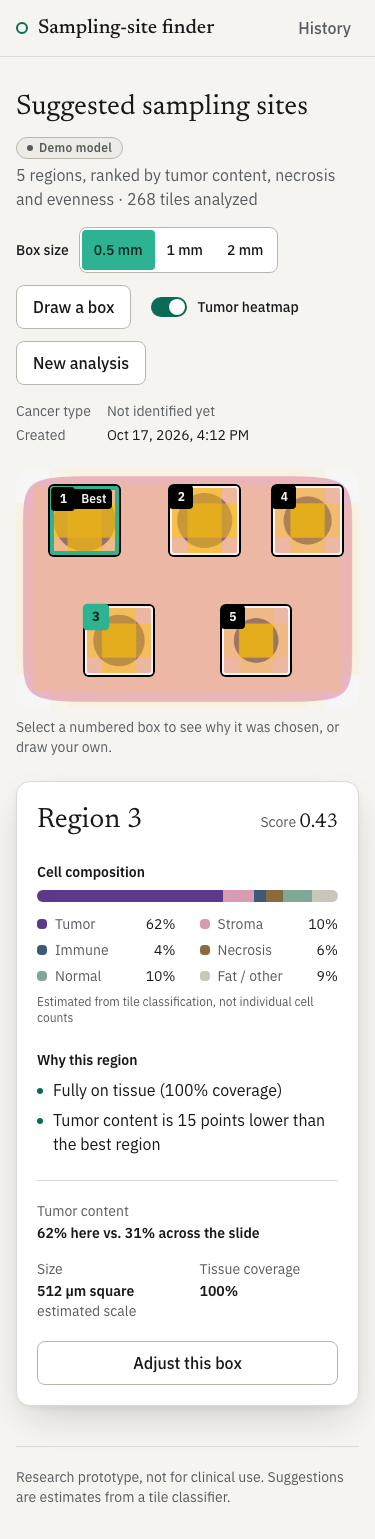
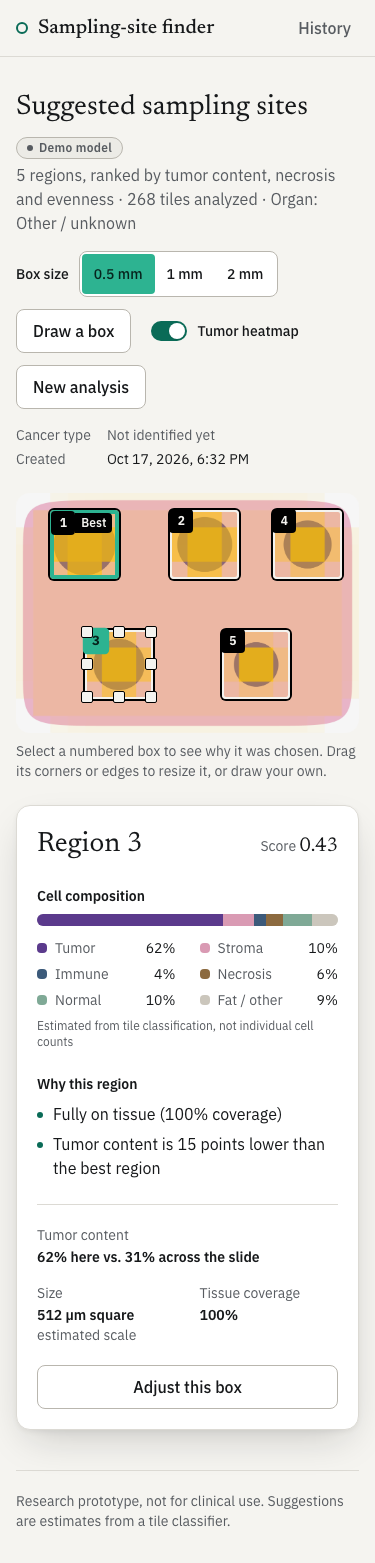
resize any box by its corners, and re-score it while you drag
The selected suggestion now shows 8 handles. Grabbing one turns that region
into your box and keeps resizing it in the same drag, from the whole image
down to 2 display px; the suggestion stays drawn for comparison.

The box is re-scored on every pointer move, not only on release: at most one
measure request is out at a time and only the newest box waits behind it.
Drawing a new box is scored live the same way.

Tests: handles on the selected suggestion only, corner drag from a suggestion,
full-frame and minimum size, a mid-drag score update, the one-in-flight
throttle, and a Playwright corner drag checked against the API before release.

diff --git a/frontend/components/FreeBox.test.tsx b/frontend/components/FreeBox.test.tsx
@@ -148,7 +148,8 @@ test('switching between a suggested region and your box, and removing your box',
 })
 
 test('the server\'s message shows when a box can\'t be measured', async () => {
-  fetchMock.mockResolvedValueOnce(jsonResponse({ detail: 'This box has no analyzed tissue in it. Move it over the tissue.' }, 400))
+  // Every request in the gesture fails (the box is scored mid-drag too, and the latest answer wins).
+  fetchMock.mockImplementation(async () => jsonResponse({ detail: 'This box has no analyzed tissue in it. Move it over the tissue.' }, 400))
   render(<Results result={makeResult()} />)
   await draw([0, 0], [20, 20])
   expect(await panel().findByRole('alert')).toHaveTextContent('This box has no analyzed tissue in it.')
@@ -161,4 +162,99 @@ test('choosing "Draw a box" from the keyboard places a box you can then move wit
   // The best region's size (256 display px = 128 rendered px), centered on the 1024 × 768 rendered image.
   expect(freeBox()).toHaveFocus()
   expect(freeBox()).toHaveStyle({ left: '448px', top: '320px', width: '128px', height: '128px' })
+})
+
+// --- every box is resizable, and the numbers follow the box while you drag --------------------------
+
+function press(target: Element, at: [number, number]) {
+  fireEvent.pointerDown(target, { clientX: at[0], clientY: at[1], button: 0 })
+}
+const moveTo = (at: [number, number]) => fireEvent.pointerMove(window, { clientX: at[0], clientY: at[1] })
+const release = (at: [number, number]) => fireEvent.pointerUp(window, { clientX: at[0], clientY: at[1] })
+
+test('the selected suggestion has handles: drag its corner to resize it, no extra button needed', async () => {
+  const result = makeResult()
+  render(<Results result={result} />)
+  const r = result.regions[0] // selected at first; drawn at half size: (600, 150), 128 × 128 rendered px
+  const best = screen.getByRole('button', { name: /^Region 1/ })
+  await act(async () => drag(within(best).getByTestId('handle-se'), [728, 278], [828, 318]))
+  expect(freeBox()).toHaveStyle({ left: `${r.x / 2}px`, top: `${r.y / 2}px`, width: '228px', height: '168px' })
+  expect(Object.fromEntries(measured())).toEqual({ x: String(r.x), y: String(r.y), w: '456', h: '336' })
+  expect(await panel().findByRole('heading', { name: 'Your box' })).toBeInTheDocument()
+  expect(screen.getByRole('button', { name: /^Region 1/ })).toBeInTheDocument() // the suggestion stays for comparison
+})
+
+test('only the selected suggestion shows handles', async () => {
+  render(<Results result={makeResult()} />)
+  const [first, second] = screen.getAllByRole('button', { name: /^Region \d/ })
+  expect(within(first).queryByTestId('handle-se')).toBeInTheDocument()
+  expect(within(second).queryByTestId('handle-se')).not.toBeInTheDocument()
+  await userEvent.click(second)
+  expect(within(second).queryByTestId('handle-se')).toBeInTheDocument()
+})
+
+test('a corner drags the box out to the whole image and down to almost nothing', async () => {
+  render(<Results result={makeResult()} />)
+  await draw([100, 100], [300, 250])
+  await act(async () => drag(within(freeBox()).getByTestId('handle-nw'), [100, 100], [-500, -500]))
+  await act(async () => drag(within(freeBox()).getByTestId('handle-se'), [300, 250], [5000, 5000]))
+  expect(freeBox()).toHaveStyle({ left: '0px', top: '0px', width: '1024px', height: '768px' })
+  expect(Object.fromEntries(measured())).toEqual({ x: '0', y: '0', w: '2048', h: '1536' })
+
+  await act(async () => drag(within(freeBox()).getByTestId('handle-se'), [1024, 768], [0, 0]))
+  expect(freeBox()).toHaveStyle({ left: '0px', top: '0px', width: '1px', height: '1px' }) // 2 display px, the minimum
+})
+
+test('the score is recalculated while the corner is still held, not only on release', async () => {
+  render(<Results result={makeResult()} />)
+  await draw([100, 100], [300, 250])
+  await panel().findByText('0.37')
+  const before = fetchMock.mock.calls.length
+  fetchMock.mockImplementation(async (url: string) => {
+    const q = new URL(url, 'http://x').searchParams
+    const w = Number(q.get('w'))
+    return jsonResponse(makeMeasured(Number(q.get('x')), Number(q.get('y')), w, Number(q.get('h')), { score: w / 1000 }))
+  })
+
+  const handle = within(freeBox()).getByTestId('handle-se')
+  await act(async () => {
+    press(handle, [300, 250])
+    moveTo([350, 250])
+  })
+  expect(Object.fromEntries(measured())).toEqual({ x: '200', y: '200', w: '500', h: '300' })
+  expect(await panel().findByText('0.50')).toBeInTheDocument() // updated mid-drag
+  await act(async () => moveTo([400, 300]))
+  expect(await panel().findByText('0.60')).toBeInTheDocument()
+  await act(async () => release([400, 300]))
+  expect(fetchMock.mock.calls.length).toBeGreaterThan(before + 1)
+  expect(Object.fromEntries(measured())).toEqual({ x: '200', y: '200', w: '600', h: '400' })
+})
+
+test('while one score request is out, moves wait and only the newest box is sent next', async () => {
+  render(<Results result={makeResult()} />)
+  await draw([100, 100], [300, 250])
+  await panel().findByText('0.37')
+  const answers: ((r: Response) => void)[] = []
+  fetchMock.mockImplementation(
+    (url: string) =>
+      new Promise<Response>((resolve) => {
+        const q = new URL(url, 'http://x').searchParams
+        const [x, y, w, h] = ['x', 'y', 'w', 'h'].map((k) => Number(q.get(k)))
+        answers.push(() => resolve(jsonResponse(makeMeasured(x, y, w, h, { score: w / 1000 }))))
+      }),
+  )
+  const calls = fetchMock.mock.calls.length
+  const handle = within(freeBox()).getByTestId('handle-se')
+  await act(async () => {
+    press(handle, [300, 250])
+    moveTo([310, 250])
+    moveTo([320, 250])
+    moveTo([330, 250])
+  })
+  expect(fetchMock.mock.calls.length).toBe(calls + 1) // one in flight, the rest held back
+  await act(async () => answers.shift()!(new Response()))
+  expect(fetchMock.mock.calls.length).toBe(calls + 2)
+  expect(measured().get('w')).toBe('460') // the newest box (330 rendered px wide edge), not the in-between ones
+  await act(async () => answers.shift()!(new Response()))
+  expect(await panel().findByText('0.46')).toBeInTheDocument()
 })

diff --git a/frontend/components/Results.tsx b/frontend/components/Results.tsx
@@ -73,6 +73,10 @@ export default function Results({
   const focusFree = useRef(false)
   const latestRequest = useRef(0)
   const timer = useRef<ReturnType<typeof setTimeout>>(undefined)
+  // Live scoring: at most one request out at a time; while it's out, only the newest box waits to go next.
+  const inFlight = useRef(false)
+  const pending = useRef<Rect | null>(null)
+  const drewNew = useRef(false) // this drawing gesture has already put a box on the slide
 
   useEffect(() => () => clearTimeout(timer.current), [])
   useEffect(() => {
@@ -87,7 +91,6 @@ export default function Results({
   }, [drawing])
 
   async function measureNow(rect: Rect) {
-    clearTimeout(timer.current)
     const id = ++latestRequest.current
     setMeasuring(true)
     const round = (v: number) => String(Number(v.toFixed(1)))
@@ -108,14 +111,38 @@ export default function Results({
     }
   }
 
+  async function pump() {
+    while (pending.current && !inFlight.current) {
+      const rect = pending.current
+      pending.current = null
+      inFlight.current = true
+      try {
+        await measureNow(rect)
+      } finally {
+        inFlight.current = false
+      }
+    }
+  }
+
+  function measureLive(rect: Rect) {
+    pending.current = rect
+    pump()
+  }
+
+  // Every change re-scores the box: pointer moves and releases right away (throttled to one request at a
+  // time), arrow keys once they stop for 300 ms.
   function changeFree(rect: Rect, when: 'drag' | 'now' | 'soon') {
+    if (selected !== 'free') {
+      // a new box (drawn, or grabbed from a suggestion): don't show the previous box's numbers
+      latestRequest.current++
+      setMeasured(null)
+      setMeasureError(null)
+    }
     setFree(rect)
     setSelected('free')
-    if (when === 'now') measureNow(rect)
-    if (when === 'soon') {
-      clearTimeout(timer.current)
-      timer.current = setTimeout(() => measureNow(rect), 300)
-    }
+    clearTimeout(timer.current)
+    if (when === 'soon') timer.current = setTimeout(() => measureLive(rect), 300)
+    else measureLive(rect)
   }
 
   function placeFree(rect: Rect, focus = false) {
@@ -128,6 +155,7 @@ export default function Results({
 
   function removeFree() {
     clearTimeout(timer.current)
+    pending.current = null
     latestRequest.current++
     setFree(null)
     setMeasured(null)
@@ -140,6 +168,7 @@ export default function Results({
   // region in the middle of the image and focus it, so the arrow keys take over.
   function drawButton(e: React.MouseEvent) {
     if (drawing) return setDrawing(false)
+    drewNew.current = false
     if (e.detail !== 0) return setDrawing(true)
     const { width, height } = result.image
     const w = result.regions[0]?.w ?? width / 4
@@ -244,14 +273,22 @@ export default function Results({
             freeLabel={`Your box${measured ? `: ${pct(measured.composition.tumor)} tumor` : ''}`}
             freeRef={freeRef}
             drawing={drawing}
-            onDrawn={(rect) => rect && placeFree(rect)}
+            onDrawn={(rect) => {
+              if (!rect) return free && drewNew.current && removeFree()
+              setDrawing(false)
+              changeFree(rect, 'now')
+            }}
+            onSketch={(rect) => {
+              drewNew.current = true
+              changeFree(rect, 'drag')
+            }}
             onFreeSelect={() => setSelected('free')}
             onFreeChange={changeFree}
           />
           <p className="mt-2 text-sm text-ink-muted">
             {drawing
               ? 'Drag across the slide to draw your box. Press Escape to cancel.'
-              : 'Select a numbered box to see why it was chosen, or draw your own.'}
+              : 'Select a numbered box to see why it was chosen. Drag its corners or edges to resize it, or draw your own.'}
           </p>
         </div>
         <div className="lg:sticky lg:top-6">

diff --git a/frontend/components/SlideViewer.tsx b/frontend/components/SlideViewer.tsx
@@ -3,7 +3,7 @@
 import { useCallback, useLayoutEffect, useRef, useState, type Ref } from 'react'
 import type { Result } from '@/lib/api'
 import { pct } from '@/lib/format'
-import FreeBox, { fromCorners, useDrag, type Rect } from './FreeBox'
+import FreeBox, { dragRect, fromCorners, HANDLE_POS, HANDLES, useDrag, type Handle, type Rect } from './FreeBox'
 
 const MIN_DRAW_PX = 4 // rendered px: a smaller drag is a click, not a box
 
@@ -42,6 +42,7 @@ interface Props {
   freeRef: Ref<HTMLDivElement>
   drawing: boolean
   onDrawn: (rect: Rect | null) => void
+  onSketch: (rect: Rect) => void
   onFreeSelect: () => void
   onFreeChange: (rect: Rect, when: 'drag' | 'now' | 'soon') => void
 }
@@ -50,15 +51,22 @@ export default function SlideViewer(props: Props) {
   const { result, selected, onSelect, showHeatmap, free, drawing, onDrawn } = props
   const { image } = result
   const { ref, scale, measure } = useScale(image.width)
-  const [sketch, setSketch] = useState<Rect | null>(null)
 
   // Drawing: the press point is one corner and the pointer is the other, in display px.
   const drag = useDrag<[number, number]>(scale, ([ax, ay], dx, dy, done) => {
     const rect = fromCorners(ax, ay, ax + dx, ay + dy, image.width, image.height)
-    if (!done) return setSketch(rect)
-    setSketch(null)
-    onDrawn(rect.w * scale >= MIN_DRAW_PX && rect.h * scale >= MIN_DRAW_PX ? rect : null)
+    const big = rect.w * scale >= MIN_DRAW_PX && rect.h * scale >= MIN_DRAW_PX
+    if (!done) {
+      if (big) props.onSketch(rect)
+      return
+    }
+    onDrawn(big ? rect : null)
   })
+  // The selected suggestion's handles: grabbing one turns that region into your box and keeps resizing it.
+  const resize = useDrag<{ handle: Handle; start: Rect }>(scale, ({ handle, start }, dx, dy, done) =>
+    props.onFreeChange(dragRect(start, handle, dx, dy, image.width, image.height), done ? 'now' : 'drag'),
+  )
+
   const startDraw = (e: React.PointerEvent) => {
     const box = ref.current!.getBoundingClientRect()
     drag([(e.clientX - box.left) / scale, (e.clientY - box.top) / scale], e)
@@ -112,6 +120,17 @@ export default function SlideViewer(props: Props) {
                 <span className="rounded-r-sm bg-box-outline px-1.5 py-0.5 text-xs font-semibold text-box-other">Best</span>
               )}
             </span>
+            {isSelected &&
+              HANDLES.map((h) => (
+                <span
+                  key={h}
+                  aria-hidden
+                  data-testid={`handle-${h}`}
+                  onPointerDown={(e) => resize({ handle: h, start: { x: r.x, y: r.y, w: r.w, h: r.h } }, e)}
+                  onClick={(e) => e.stopPropagation()}
+                  className={`free-box-handle absolute size-3 touch-none rounded-[2px] ${HANDLE_POS[h]}`}
+                />
+              ))}
           </button>
         )
       })}
@@ -128,14 +147,7 @@ export default function SlideViewer(props: Props) {
         />
       )}
       {drawing && (
-        <div data-testid="draw-surface" aria-hidden onPointerDown={startDraw} className="absolute inset-0 z-30 cursor-crosshair touch-none">
-          {sketch && (
-            <div
-              className="free-box absolute rounded-sm"
-              style={{ left: `${sketch.x * scale}px`, top: `${sketch.y * scale}px`, width: `${sketch.w * scale}px`, height: `${sketch.h * scale}px` }}
-            />
-          )}
-        </div>
+        <div data-testid="draw-surface" aria-hidden onPointerDown={startDraw} className="absolute inset-0 z-30 cursor-crosshair touch-none" />
       )}
     </div>
   )

diff --git a/frontend/e2e/flows.spec.ts b/frontend/e2e/flows.spec.ts
@@ -139,6 +139,38 @@ test('free box: draw any rectangle, resize it by a corner, and its numbers come 
   await expect(box).toHaveCount(0)
 })
 
+test('grab the best box by its corner: it resizes freely and its numbers update before you let go', async ({ page, request }) => {
+  const id = await uploadFromHome(page, fixture('slide'))
+  await expect(regionBoxes(page)).toHaveCount(5, { timeout: 30_000 })
+  const best = page.getByRole('button', { name: /^Region 1/ })
+  const corner = (await best.getByTestId('handle-se').boundingBox())!
+  const start = { x: corner.x + corner.width / 2, y: corner.y + corner.height / 2 }
+
+  await page.mouse.move(start.x, start.y)
+  await page.mouse.down()
+  await page.mouse.move(start.x + 150, start.y + 90, { steps: 8 })
+
+  // Still holding the corner: the box is yours, and the panel already shows numbers for its current shape.
+  const box = page.getByRole('group', { name: /^Your box/ })
+  const panel = page.getByRole('region', { name: 'Region details' })
+  await expect(panel.getByRole('heading', { name: 'Your box' })).toBeVisible()
+  await expect(panel.getByTestId('size')).toBeVisible()
+  const held = (await box.boundingBox())!
+  const img = (await page.getByRole('img', { name: /uploaded slide/ }).boundingBox())!
+  const width = (await (await request.get(`/api/jobs/${id}`)).json()).result.image.width
+  const scale = img.width / width
+  const q = new URLSearchParams({
+    x: String((held.x - img.x) / scale),
+    y: String((held.y - img.y) / scale),
+    w: String(held.width / scale),
+    h: String(held.height / scale),
+  })
+  const measured = await (await request.get(`/api/jobs/${id}/measure?${q}`)).json()
+  await expect(panel.getByTestId('size')).toContainText(`${Math.round(measured.width_um)} × ${Math.round(measured.height_um)} µm`)
+  await page.mouse.up()
+  await expect(best).toBeVisible() // the suggestion stays, for comparison
+})
+
 test('error flow: a blank image ends in the error state, and "Try another image" returns to upload', async ({ page }) => {
   await uploadFromHome(page, fixture('blank'))
   await expect(page.getByText('No tissue found in this image.')).toHaveAttribute('role', 'alert', { timeout: 30_000 })

diff --git a/frontend/components/FreeBox.tsx b/frontend/components/FreeBox.tsx
@@ -11,7 +11,7 @@ export interface Rect {
 }
 
 export type Handle = 'move' | 'n' | 's' | 'e' | 'w' | 'ne' | 'nw' | 'se' | 'sw'
-const HANDLES: Exclude<Handle, 'move'>[] = ['nw', 'n', 'ne', 'e', 'se', 's', 'sw', 'w']
+export const HANDLES: Exclude<Handle, 'move'>[] = ['nw', 'n', 'ne', 'e', 'se', 's', 'sw', 'w']
 const MIN_PX = 2 // display px: a side never collapses to nothing while resizing
 export const KEY_STEP = 16 // display px per arrow key press
 
@@ -73,7 +73,7 @@ export function useDrag<K>(scale: number, onDrag: (key: K, dx: number, dy: numbe
   }
 }
 
-const HANDLE_POS: Record<Exclude<Handle, 'move'>, string> = {
+export const HANDLE_POS: Record<Exclude<Handle, 'move'>, string> = {
   nw: '-top-1.5 -left-1.5 cursor-nwse-resize',
   n: '-top-1.5 left-1/2 -translate-x-1/2 cursor-ns-resize',
   ne: '-top-1.5 -right-1.5 cursor-nesw-resize',

diff --git a/reports/decisions.md b/reports/decisions.md
@@ -194,3 +194,10 @@ One line each: decision + reason.
 - main's box-size tests stubbed `FakeBackend.predict(self, tiles)`; the pipeline now passes `organ=`, so the stubs accept and forward it. main's prompt-set tests skip a set's `organs` key when comparing it with the class list.
 - `Result.organ` is optional (null for jobs recorded in the history store before the organ picker); the results screen shows "Organ: …" only when it's set. `cancer_type` (main) is separate: a future predicted type, still null.
 - For e2e specs, Playwright config and screenshots, both branches had added their own copies; main's newer versions were kept.
+
+## Resize any box, scored live
+- The selected suggestion shows the same 8 handles as your own box. Grabbing one turns that region into your box and keeps resizing it in the same drag; the suggestion stays drawn for comparison. No "Adjust" step is needed (the button stays as a keyboard-friendly route).
+- A box can be dragged out to the whole image or down to 2 display px; it's clamped to the image.
+- The box is re-scored while it's being dragged, not only on release: every pointer move asks the measure endpoint, with at most one request out at a time and only the newest box waiting behind it, so the numbers keep up without a request per pixel. Drawing a new box is scored the same way. Arrow keys still wait 300 ms after the last key.
+- All scoring stays in Python (the measure endpoint); the frontend holds no ML, as the README says.
+- The 0.5 / 1 / 2 mm picker is unchanged: it re-ranks the five suggestions at a punch size, which is a different job from reshaping one box.
